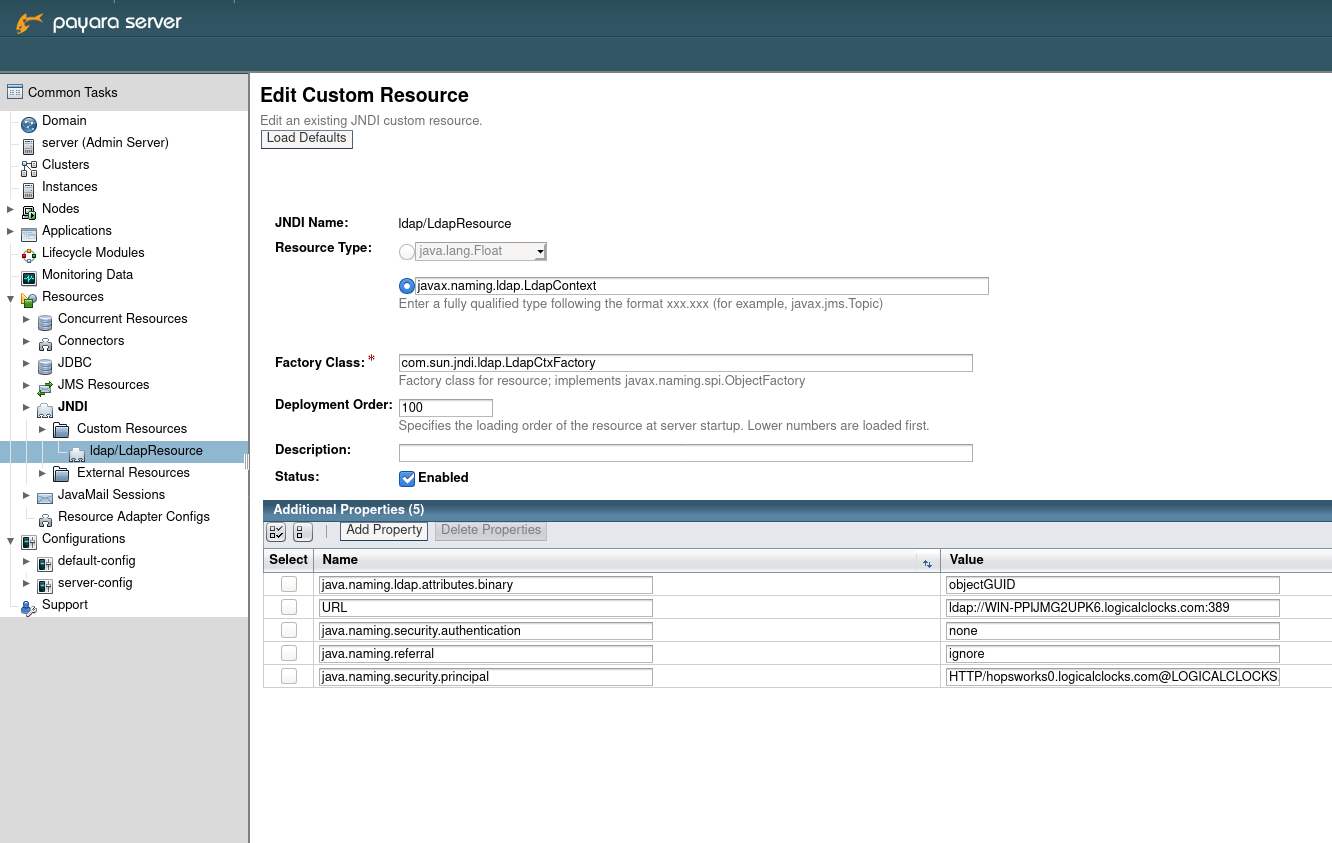
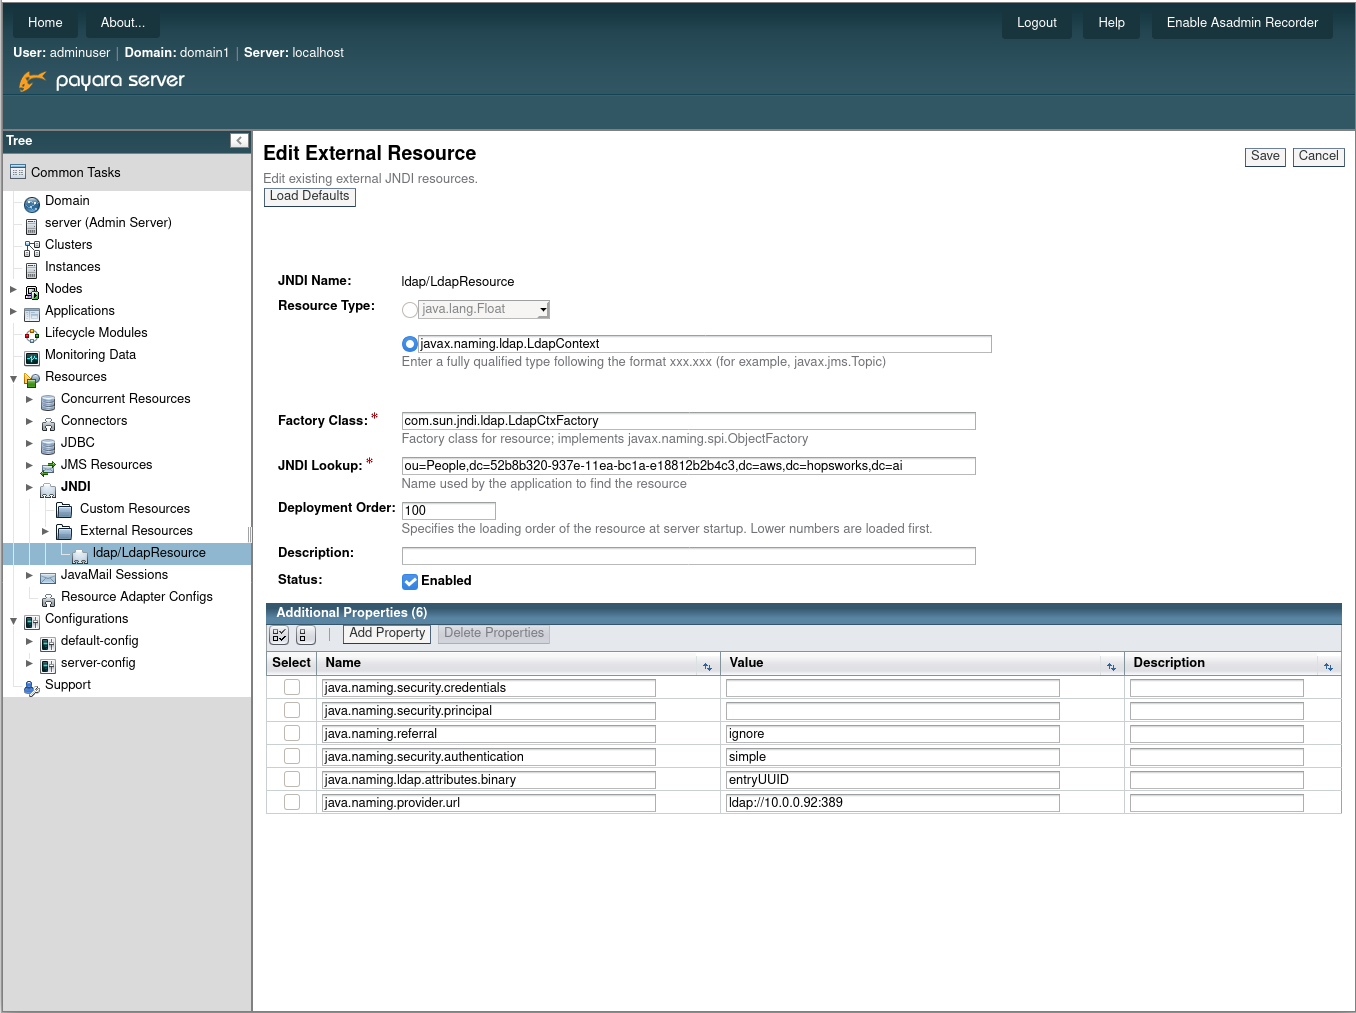
[HOPSWORKS-1665]-append update ldap config images (#155)

Changed region(s): [[0.0, 0.0, 1.0, 0.8327], [0.1847, 0.2467, 0.6772, 0.3701], [0.0, 0.987, 1.0, 1.0]]

diff --git a/docs/admin_guide/ldap.rst b/docs/admin_guide/ldap.rst
@@ -55,7 +55,7 @@ Without Karamel/Chef
 --------------------
 
 An already deployed instance can be configured to connect to LDAP without the need of running Karamel/Chef. 
-Administrators should create a new `JNDI` custom resource in Payara. The name of the resource should be `ldap/LdapResource`. 
+Administrators should create a new `JNDI` external resource in Payara. The name of the resource should be `ldap/LdapResource`. 
 This can be done either through the Payara Web UI (as shown below) or though the `asadmin` binary from command line.
 
 .. _ldap-resource.png: ../_images/admin/ldap-resource.png
